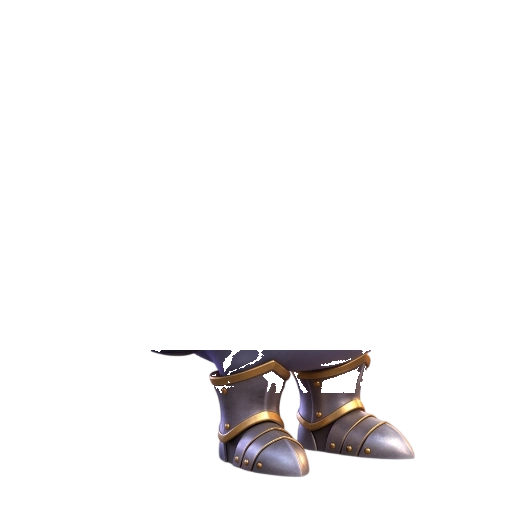
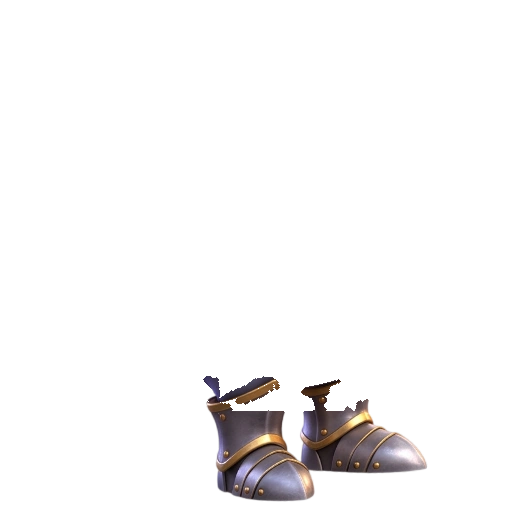
fix: align shoes with full ECC, strip belly smudges, lock stage height

Changed region(s): [[0.3125, 0.6562, 0.8438, 1.0]]

diff --git a/src/ui.tsx b/src/ui.tsx
@@ -128,7 +128,7 @@ export const PIGEON_SKIN_COLORS: Record<string, string> = {
   "iridescent-oil-slick": "#5e5a67", "skin-18": "#5e5a67", "18": "#5e5a67",
 };
 
-const ASSET_V = "?v=33";
+const ASSET_V = "?v=34";
 
 export const TAB_BACKGROUNDS: Record<string, string> = {
   birds: `/assets/backgrounds/home.webp${ASSET_V}`,

diff --git a/src/style.css b/src/style.css
@@ -424,9 +424,9 @@ button:disabled {
 .pigeon-stage-container {
   --rarity: #aeb5c2;
   position: relative;
-  flex: 1 0 auto;
-  min-height: 380px;
-  padding-top: 40px;
+  flex: none;
+  height: 350px;
+  padding-top: 32px;
   width: 100%;
   max-width: 100%;
   display: flex;

diff --git a/scripts/build-pigeon-assets.py b/scripts/build-pigeon-assets.py
@@ -404,13 +404,14 @@ def extract_accessory_diff(
     y_grid, x_grid = np.indices(TARGET_SIZE)
 
     if slot == "shoes":
-        # Оставляем зону обуви внизу и убираем мелкие обрывки лодыжек выше ботинок
-        y_top_limit = y_min_ref + int(h_ref * 0.72)
-        cand = (alpha_src > 40) & (y_grid >= y_top_limit) & ((~ref_body) | (diff > 24.0) | (y_grid >= y_min_ref + int(h_ref * 0.82)))
-        num_l, labels, stats, centroids = cv2.connectedComponentsWithStats(cand.astype(np.uint8))
+        # Оставляем только зону обуви внизу (ниже живота y >= 0.78) и отсекаем серую «грязь» на животе/лодыжках
+        y_top_limit = y_min_ref + int(h_ref * 0.78)
+        cand = (alpha_src > 40) & (y_grid >= y_top_limit) & ((~ref_body) | (diff > 38.0) | (y_grid >= y_min_ref + int(h_ref * 0.86)))
+        opened = cv2.morphologyEx(cand.astype(np.uint8), cv2.MORPH_OPEN, cv2.getStructuringElement(cv2.MORPH_ELLIPSE, (3, 3))) > 0
+        num_l, labels, stats, centroids = cv2.connectedComponentsWithStats(opened.astype(np.uint8))
         keep = np.zeros_like(cand)
         for lbl in range(1, num_l):
-            if stats[lbl, cv2.CC_STAT_AREA] > 250 and centroids[lbl][1] > y_min_ref + int(h_ref * 0.76):
+            if stats[lbl, cv2.CC_STAT_AREA] > 300 and centroids[lbl][1] > y_min_ref + int(h_ref * 0.80):
                 keep[labels == lbl] = True
         keep = cv2.dilate(keep.astype(np.uint8), cv2.getStructuringElement(cv2.MORPH_ELLIPSE, (3, 3))) > 0
         out[~keep, 3] = 0
@@ -661,7 +662,7 @@ def build_accessories_assets(
     out_slot_dir.mkdir(parents=True, exist_ok=True)
     ref_alpha = ref_rgba[:, :, 3].astype(np.float32) / 255.0
 
-    mode_map = {"shoes": "upper", "clothes": "head_and_feet", "hats": "lower_body"}
+    mode_map = {"shoes": "full", "clothes": "head_and_feet", "hats": "lower_body"}
     mask_mode = mode_map.get(slot, "upper")
 
     print(f"\n{step_label} Сегментация (rembg) и ECC-выравнивание ({mask_mode}) {slot} из {src_dir}...")
